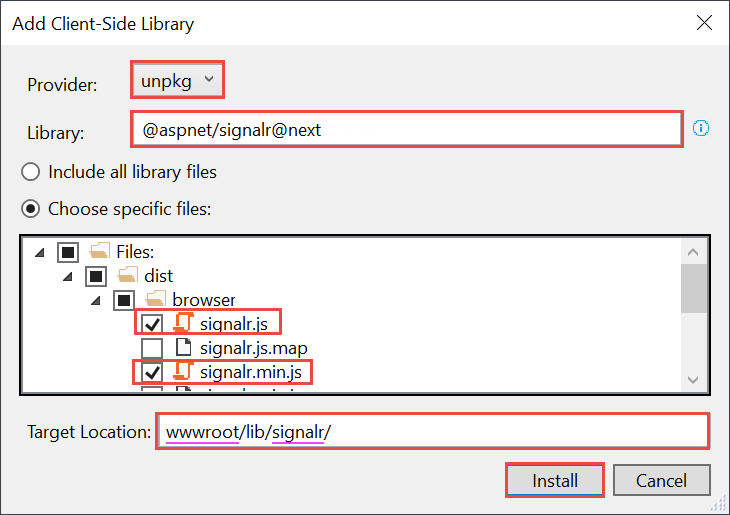
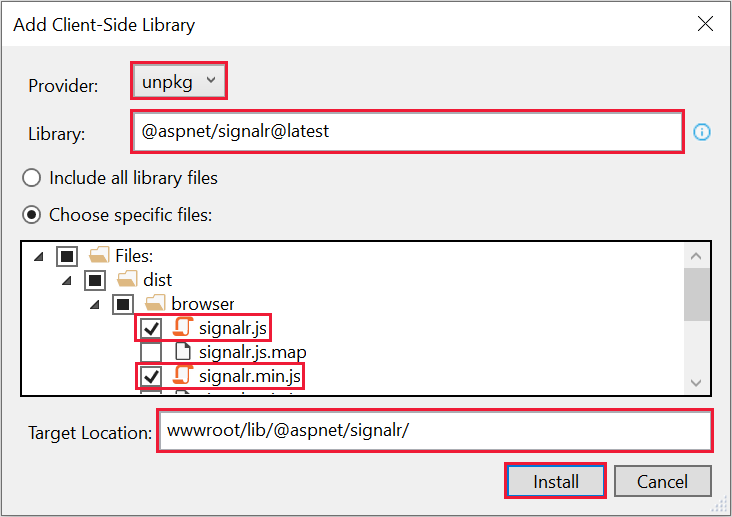
Changed client lib instruction to @latest & updated screenshot

Changed region(s): [[0.0, 0.0, 1.0, 1.0], [0.0301, 0.2485, 0.1205, 0.2796]]

diff --git a/aspnetcore/tutorials/signalr.md b/aspnetcore/tutorials/signalr.md
@@ -53,7 +53,7 @@ At the end, you'll have a working chat app:
 
 * In the **Configure your new project** dialog, name the project *SignalRChat*, and then select **Create**.
 
-* In the **Create a new ASP.NET Core Web Application** dialog, select **.NET Core** and **ASP.NET Core 3.0**. 
+* In the **Create a new ASP.NET Core web Application** dialog, select **.NET Core** and **ASP.NET Core 3.0**.
 
 * Select **Web Application** to create a project that uses Razor Pages, and then select **Create**.
 
@@ -483,7 +483,7 @@ The SignalR server must be configured to pass SignalR requests to SignalR.
 
 ## Additional resources
 
-* [Youtube version of this tutorial](https://www.youtube.com/watch?v=iKlVmu-r0JQ)
+* [YouTube version of this tutorial](https://www.youtube.com/watch?v=iKlVmu-r0JQ)
 
 ## Next steps
 
